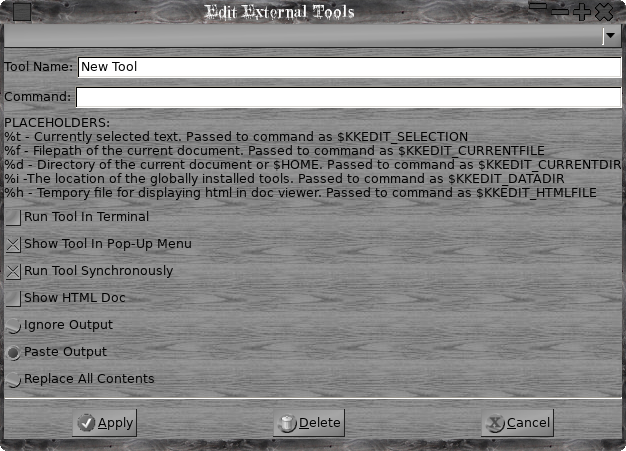
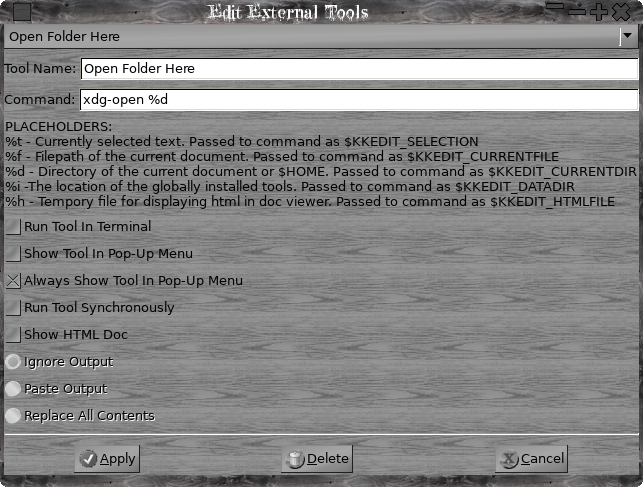
git-svn-id: file:///media/LinuxData/Development/SVN/KKEdit@406 923dfa19-3233-4c9e-86b8-84ae44b222e5

diff --git a/KKEdit/resources/help/help.html b/KKEdit/resources/help/help.html
@@ -163,7 +163,7 @@
         External tools can be created by hand or via the 'Tools-&gt;New'
         menu like so:</font><br>
       <br>
-      <img alt="exttool" src="newtool.png" height="451" width="626"><br>
+      <img alt="exttool" src="newtool.png" height="487" width="643"><br>
       <br>
       <font size="-1">The place holders are:<br>
         %t - Currently selected text, the same as the $KKEDIT_SELECTION
@@ -194,11 +194,16 @@
                         size="-1">Show Tool In Pop-Up Menu"</font>
                       selected will show up in the pop-up menu if you
                       have also<font size="-1"> selected some text.<br>
-                        <br>
-                        Commands can be 'comp<font size="-1">ound</font>'
-                        commands i.e. 'cat /tmp/textfile|head' but using
-                        pipes to a terminal may not always give what you
-                        want i.e. 'xterm -hold -e 'cat "</font></font></font></font></font></font></font></font></font><font
+                        Tools that have the "Always <font size="-1">show
+                          In Popup" selected will show in the popup menu
+                          regardless of w<font size="-1">hether any text
+                            is or is not selected.<br>
+                            <br>
+                          </font></font> Commands can be 'comp<font
+                          size="-1">ound</font>' commands i.e. 'cat
+                        /tmp/textfile|head' but using pipes to a
+                        terminal may not always give what you want i.e.
+                        'xterm -hold -e 'cat "</font></font></font></font></font></font></font></font></font><font
         size="-1"><font size="-1"><font size="-1"><font size="-1"><font
                 size="-1"><font size="-1"><font size="-1"><font
                       size="-1"><font size="-1"><font size="-1"><font
@@ -208,9 +213,11 @@
                                           size="-1">/tmp/textfile</font></font></font></font></font></font></font></font></font>"|tail
 
 
+
                         -f'' WILL <font size="-1">work and show the
                           tail of the file but <font size="-1">WILL NOT
                             follow properly this is a <font size="-1">feature/problem
+
 
 
                               of xterm and beyond</font></font> my
@@ -219,10 +226,12 @@
                         </font>For very </font></font></font></font></font></font></font></font>complex
 
 
+
         commands create a script and set 'command' to the filepath of
         your script. </font> <font size="-1"><br>
         Tools can be edited by selecting from the drop down list, if you
         attempt to edit a globally installed tool ( <font size="-1">i.e.</font>i.e.
+
 
 
         one in /usr/share/KKEdit/tools ) you must have root privileges.</font><br>
@@ -256,8 +265,8 @@
       <br>
       <a name="copyfilenameanc"></a><font size="-1">Right clicking on a
         tab allows copying of the document filename<font size="-1">,</font>
-        filepath or spell check the document.</font><br>
-      <img alt="tabmenu" src="tabmenu.png" height="377" width="674"><br>
+        filepath, spell check the document or split/insplit the view.</font><br>
+      <img alt="tabmenu" src="tabmenu.png" height="270" width="638"><br>
       <br>
       <br>
       <a name="copyfunctiondefine"></a><font size="-1">The document
@@ -337,6 +346,7 @@
 
 
 
+
                         here</a><font size="-1"> ) <font size="-1">then
                           gtksu will be used for authentication if not a
                           terminal will be used depending on your
@@ -405,6 +415,7 @@ href="http://keithhedger.hostingsiteforfree.com/zips/kkedit/KKEdit-0.0.22.tar.gz
                             size="-1"><font size="-1">(</font></font></font></font></font><font
                       size="-1"><font size="-1"><font size="-1"><font
                             size="-1"><font size="-1"><font size="-1">optional
+
                                 but recommended)<br>
                                 <br>
                               </font></font></font></font></font></font></font></font></font>
@@ -438,6 +449,7 @@ href="http://keithhedger.hostingsiteforfree.com/zips/kkedit/KKEdit-0.0.22.tar.gz
         run:<br>
         ./autogen.sh --prefix=/usr&nbsp; </font><font size="-1"><font
           size="-1"><font size="-1"><font size="-1"></font>--enable-aspell</font></font>&nbsp;
+
 
 
 
